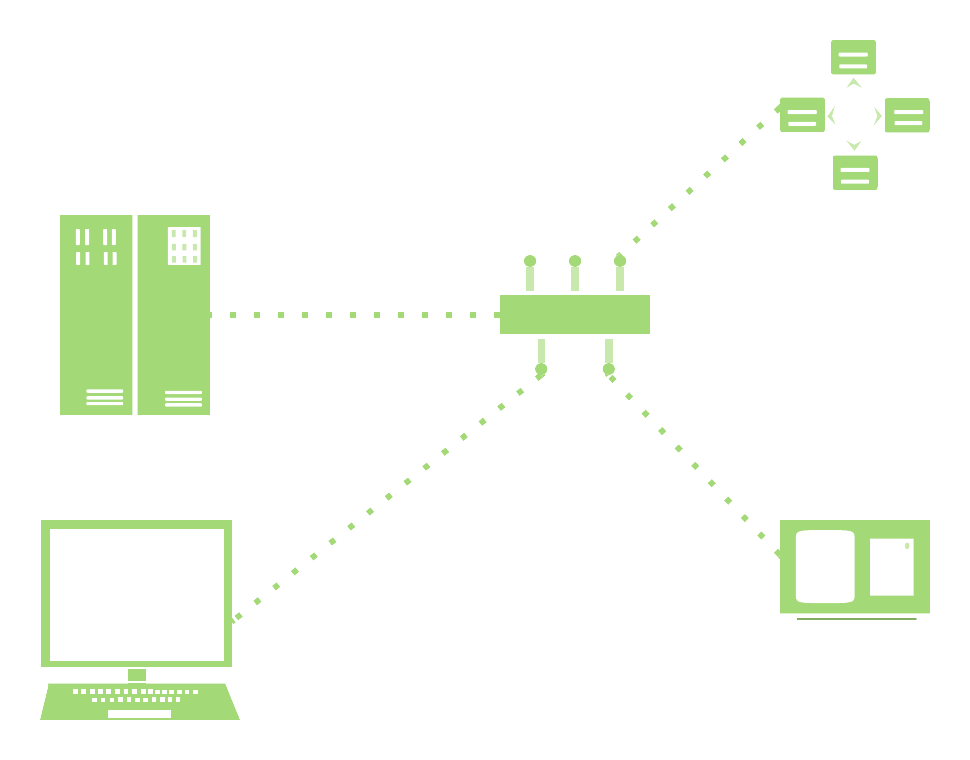
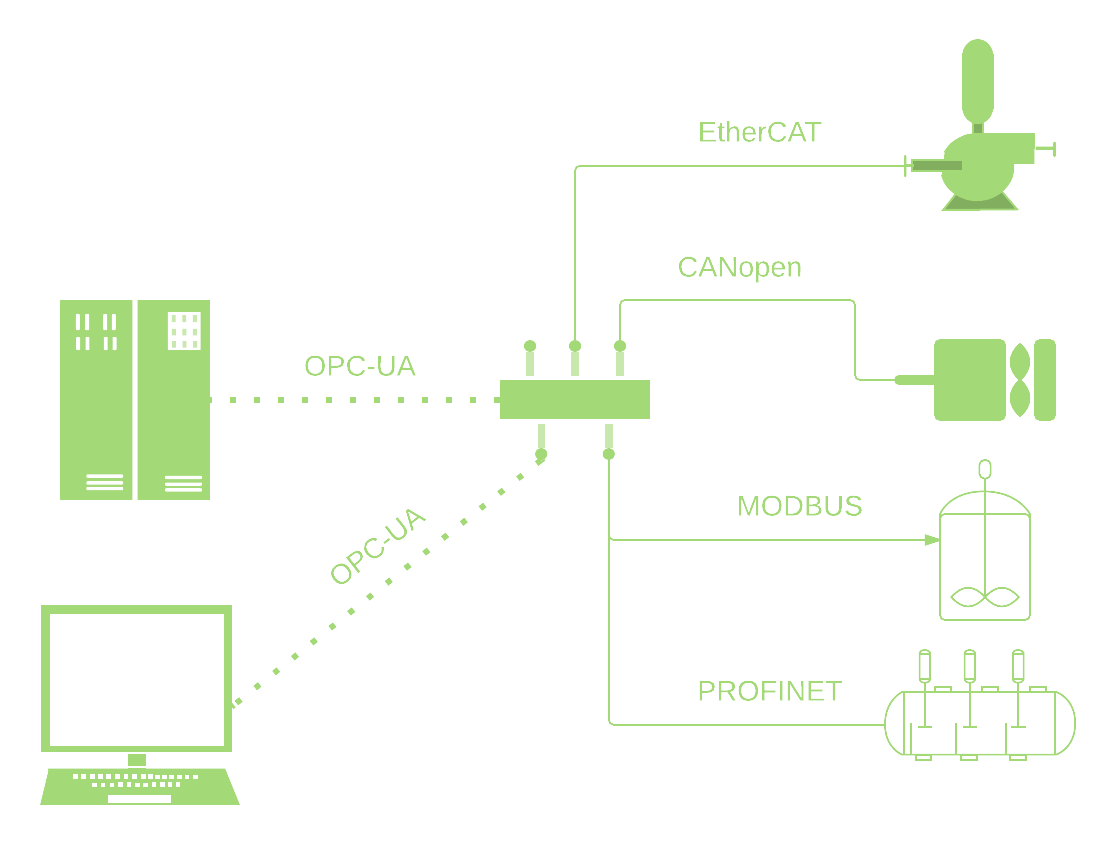
adding example images and goals slide

diff --git a/opcuaclient.html b/opcuaclient.html
@@ -50,15 +50,24 @@
         <img src="img/building.png" id="building"/>
       </div>
 
-      <div id="spec" class="step slide" data-x="70000" data-y="-150000" data-scale="50">
+      <div id="goals" class="step slide" data-x="70000" data-y="-150000" data-scale="50">
+        <h1>Goals</h1>
+        <ul>
+          <li>Interoperability</li>
+          <li>Robustness</li>
+          <li>Scalability</li>
+          <li>Security</li>
+        </ul>
+        <img src="img/example.jpg" id="example"/>
+      </div>
+
+      <div id="spec" class="step slide" data-x="70000" data-y="-200000" data-scale="50">
         <h1>OPC-UA specification</h1>
         <ul>
-          <li>not open source</li>
           <li>hosted by the OPC-Foundation</li>
           <li>far more than a protocol - more a framework to build your own</li>
           <li>very complex - 13 partial specifications for many purposes like 
           encoding, verfication, encoding, Object Orientation, security</li>
-          <li>Even an own visual language</li>
           <li>Clients and Servers in C/C++, Java, .NET</li>
         </ul>
       </div>

diff --git a/styles/custom.css b/styles/custom.css
@@ -48,6 +48,11 @@ img#building,
 img#industrie {
   height: 80vh; }
 
+img#example {
+  position: absolute;
+  top: 5vh;
+  left: 50vh; }
+
 img#ieee754 {
   width: 81vw; }
 

diff --git a/styles/sass/slides.sass b/styles/sass/slides.sass
@@ -46,5 +46,10 @@ img#building,
 img#industrie
   height: 80vh
 
+img#example
+  position: absolute
+  top: 5vh
+  left: 50vh
+
 img#ieee754
   width: 81vw
